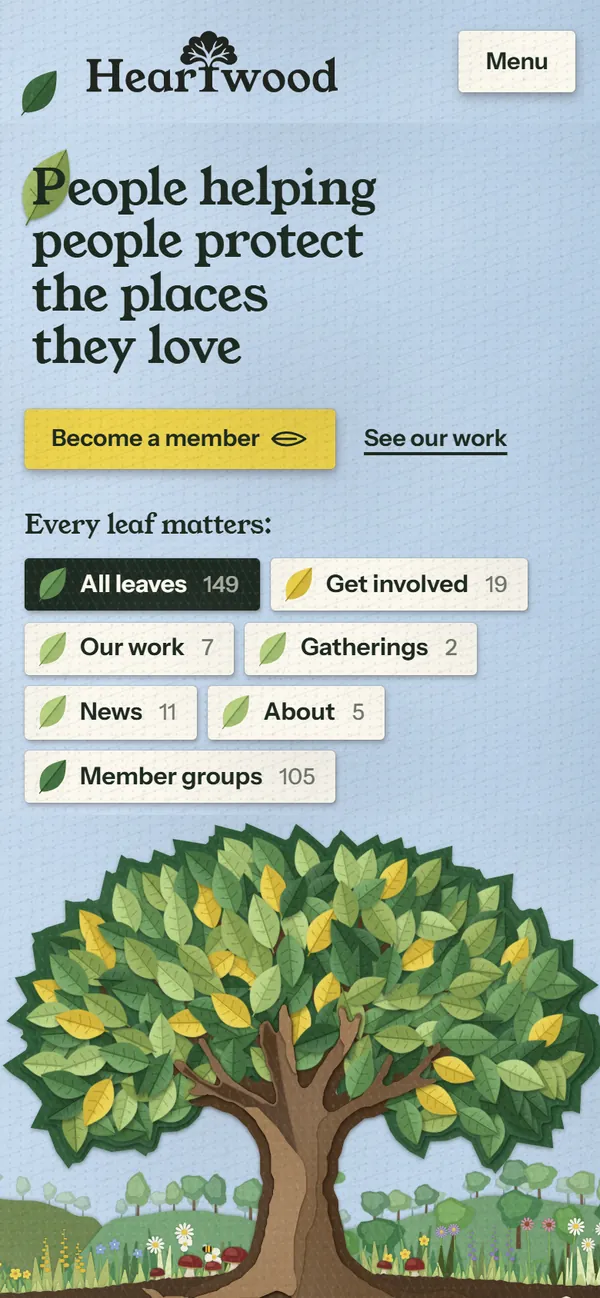
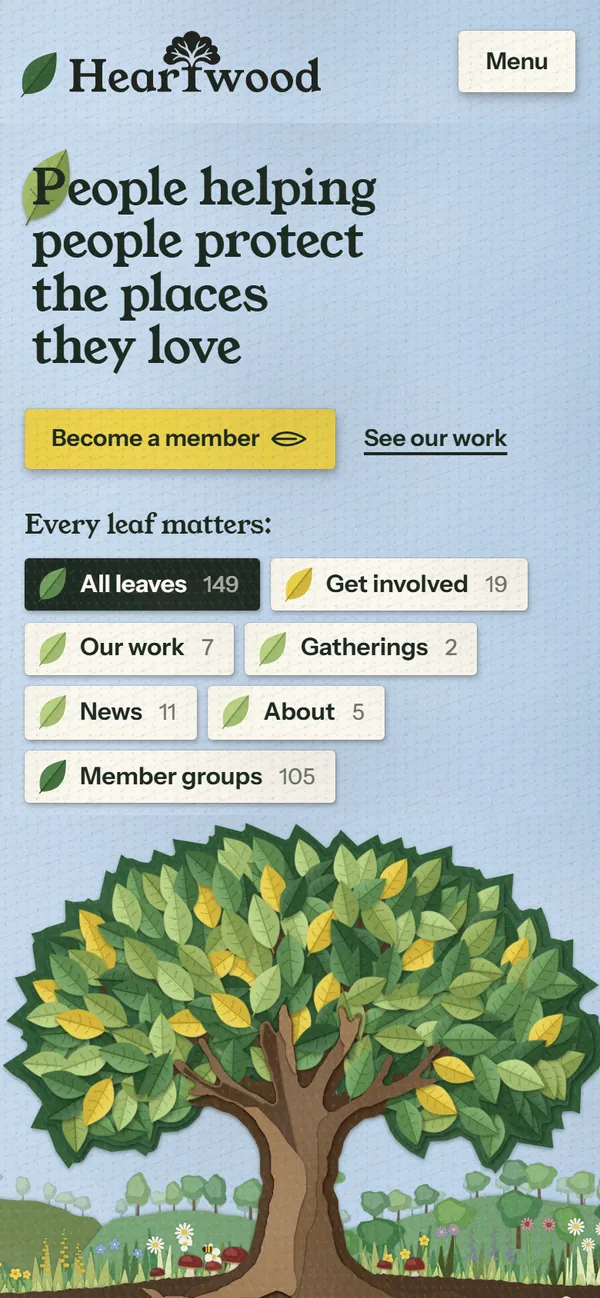
Refresh Living Tree previews on the landing page
The two previews predated the leaf-and-wordmark spacing fix. Retaken
from the current build by the new render-previews.py, which can also
redraw the mockup previews.

Changed region(s): [[0.03, 0.0, 0.57, 0.0924]]

diff --git a/tools/render-previews.py b/tools/render-previews.py
@@ -1,0 +1,62 @@
+"""Preview images for the showcase landing page (showcase/previews/).
+
+Living Tree is captured from the built site (desktop 1440x900, and a 390x844 phone at 2x). Each alternative mockup
+is captured as a whole page, which the landing page scrolls through on hover. Run after a build:
+
+    python render-previews.py                    # everything
+    python render-previews.py --only living-tree # just the Living Tree pair
+
+Needs Python Playwright with installed Chrome, and Pillow.
+"""
+import argparse
+import asyncio
+import io
+from pathlib import Path
+
+from PIL import Image
+from playwright.async_api import async_playwright
+
+ROOT = Path(__file__).resolve().parent.parent
+OUT = ROOT / 'showcase/previews'
+MOCKUPS = {'evergreen': '01-evergreen.html', 'rally': '02-rally.html', 'fieldnotes': '03-fieldnotes.html',
+           'atlas': 'concept-b-atlas.html', 'rings': 'concept-c-rings.html'}
+
+
+def save(png, name, width, quality):
+    image = Image.open(io.BytesIO(png)).convert('RGB')
+    if image.width != width:
+        image = image.resize((width, round(image.height * width / image.width)), Image.LANCZOS)
+    image.save(OUT / name, 'WEBP', quality=quality, method=6)
+    print(f'wrote showcase/previews/{name} {image.size[0]}x{image.size[1]} {(OUT / name).stat().st_size // 1024} KB')
+
+
+async def capture(browser, url, width, height, scale, mobile, full_page):
+    context = await browser.new_context(viewport={'width': width, 'height': height}, device_scale_factor=scale,
+                                        is_mobile=mobile, has_touch=mobile)
+    page = await context.new_page()
+    await page.goto(url, wait_until='load', timeout=60000)
+    await page.wait_for_timeout(3500)                    # let the leaves grow in and the fonts settle
+    png = await page.screenshot(full_page=full_page)
+    await context.close()
+    return png
+
+
+async def main(only):
+    built = ROOT / 'publish/heartwood-site.html'
+    if not built.is_file():
+        raise SystemExit('Build first: npm run build')
+    async with async_playwright() as p:
+        browser = await p.chromium.launch(channel='chrome')
+        if only in (None, 'living-tree'):
+            save(await capture(browser, built.as_uri(), 1440, 900, 1, False, False), 'living-tree-desktop.webp', 1440, 82)
+            save(await capture(browser, built.as_uri(), 390, 844, 2, True, False), 'living-tree-phone.webp', 600, 80)
+        if only in (None, 'mockups'):
+            for name, file in MOCKUPS.items():
+                save(await capture(browser, (ROOT / 'mockups' / file).as_uri(), 1440, 900, 1, False, True), f'{name}-page.webp', 880, 76)
+        await browser.close()
+
+
+if __name__ == '__main__':
+    parser = argparse.ArgumentParser()
+    parser.add_argument('--only', choices=['living-tree', 'mockups'])
+    asyncio.run(main(parser.parse_args().only))
